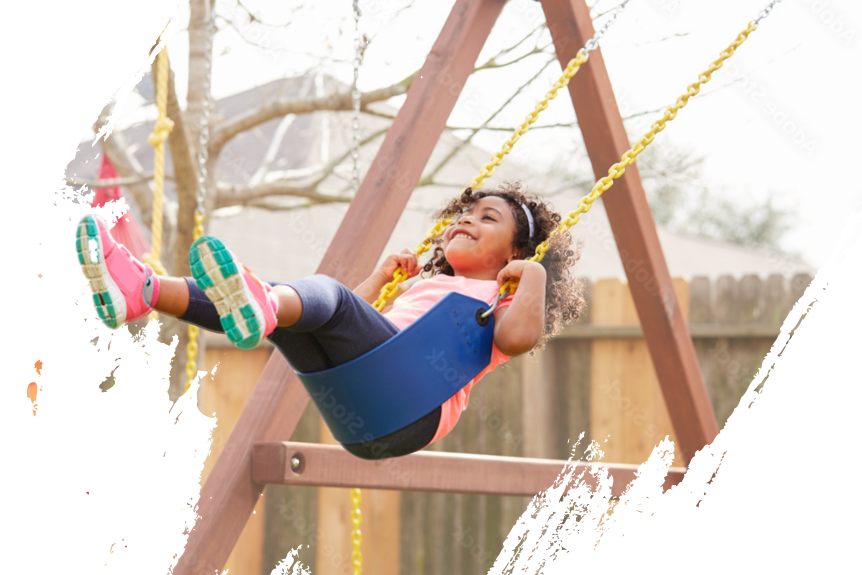
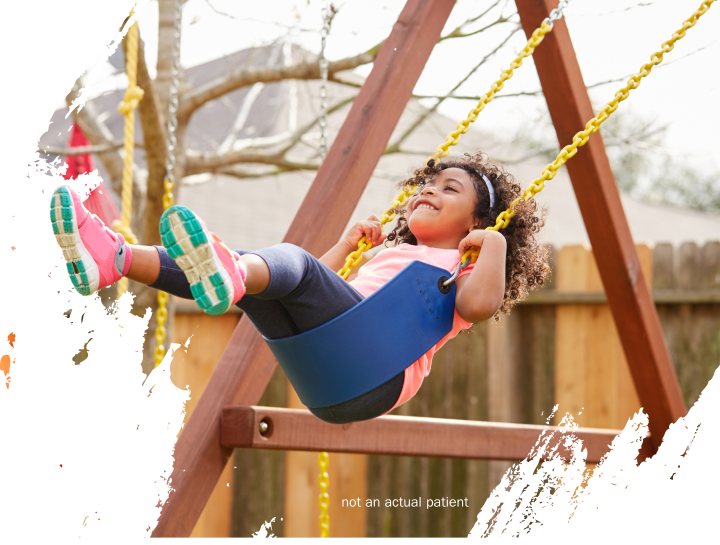
🐛 Replace and adjust main hero image

diff --git a/src/styles/components/_main-hero.scss b/src/styles/components/_main-hero.scss
@@ -18,19 +18,23 @@
     }
 
     @media screen and (min-width: 1440px) {
-        padding-bottom: 4rem;
+        padding-bottom: 2rem;
     }
 
     .main-hero__wrapper {
 
         @media screen and (min-width: 900px) {
             display: flex;
+            height: 34.0625rem;
         }
 
         .main-hero__callout {
 
             @media screen and (min-width: 900px) {
-                margin-top: 44.74px;
+                margin-top: 2.7963rem;
+                max-width: 24rem;
+                position: relative;
+                z-index: 1;
             }
 
             @media screen and (min-width: 1024px) {
@@ -39,14 +43,6 @@
 
             @media screen and (min-width: 1200px) {
                 max-width: 33.0838rem;
-            }
-
-            @media screen and (min-width: 1440px) {
-                max-width: 37.0838rem;
-            }
-
-            @media screen and (min-width: 1366px) {
-                max-width: 41.0838rem;
             }
 
             .main-hero__title,
@@ -61,6 +57,11 @@
                     display: flex;
                 }
 
+                .button {
+                    position: relative;
+                    z-index: 2;
+                }
+
                 .button:first-of-type {
                     margin-bottom: 1rem;
 
@@ -71,9 +72,7 @@
                 }
 
                 .button--secondary {
-                    position: relative;
-                    z-index: 2;
-                    background-color: transparent;
+                    background-color: $color-white;
                 }
             }
 
@@ -82,16 +81,8 @@
                 font-weight: 400;
                 line-height: 18.57px;
                 color: $color-aqua;
-                display: none;
 
-                @media screen and (min-width: 900px) {
-                    display: block;
-                    margin-top: .5rem;
-                }
-
-                @media screen and (min-width: 1440px) {
-                    margin-top: 1.5rem;
-                }
+                margin-bottom: 1rem;
             }
         }
 
@@ -105,91 +96,74 @@
 
                 @media screen and (min-width: 900px) {
                     transform: translateX(0px);
+                    position: absolute;
+                    top: 0;
+                    right: 0;
+                }
+
+                @media screen and (min-width: 1900px) {
+                    right: 36%;
+                    transform: translateX(50%);
                 }
 
                 .main-hero__picture {
                     width: auto;
-                    max-width: fit-content;
+                    max-width: max-content  ;
                     height: fit-content;
 
-                    height: 392px;
-                    transform: translate(37px, -72px);
+                    height: 295px;
+                    transform: translate(-12px, -171px);
+
+                    @media screen and (min-width: 425px) {
+                        transform: translate(-60px, -171px);
+                    }
 
                     @media screen and (min-width: 600px) {
-                        transform: translate(90px, -47px);
+                        transform: translate(15px, -171px);
+                        height: 303px;
                     }
 
                     @media screen and (min-width: 650px) {
-                        transform: translate(158px, -47px);
+                        transform: translate(94px, -171px);
                     }
 
                     @media screen and (min-width: 768px) {
-                        transform: translate(239px, -47px);
+                        transform: translate(216px, -160px);
                     }
 
                     @media screen and (min-width: 900px) {
                         transform: translate(0px, 0px);
+                        height: 545px;
                     }
 
                     img {
                         width: auto;
-                        max-width: max-content;
+                        max-width: 630px;
 
                         @media screen and (min-width: 900px) {
-                            max-width: 500px;
-                            transform: scale(1.5) translate(53px, 45px);
-                        }
-
-                        @media screen and (min-width: 1024px) {
-                            transform: scale(1.8) translate(71px, 52px);
-                        }
-
-                        @media screen and (min-width: 1200px) {
-                            transform: scale(1.5) translate(114px, 52px);
-                        }
-
-                        @media screen and (min-width: 1320px) {
-                            transform: scale(1.6) translate(73px, 53px);
-                        }
-
-                        @media screen and (min-width: 1400px) {
-                            transform: scale(1.5) translate(100px, 50px);
+                            max-width: max-content;
+                            height: 545px;
                         }
                     }
                 }
             }
         }
     }
+
     .main-hero__bottom-transition {
         position: absolute;
-        bottom: -10px;
+        bottom: -5px;
 
         @media screen and (min-width: 768px) {
             bottom: -31px;
         }
 
         @media screen and (min-width: 900px) {
-            bottom: -55px;
+            bottom: -20px;
         }
 
-        @media screen and (min-width: 1024px) {
-            bottom: -45px;
-        }
-
-        @media screen and (min-width: 1320px) {
-            bottom: -55px;
-        }
-
-        @media screen and (min-width: 1629px) {
-            bottom: -65px;
-        }
-
-        @media screen and (min-width: 2000px) {
-            bottom: -92px;
-        }
-
-        @media screen and (min-width: 2715px) {
-            bottom: -108px;
+        @media screen and (min-width: 2560px) {
+            bottom: -84px;
         }
     }
 }
